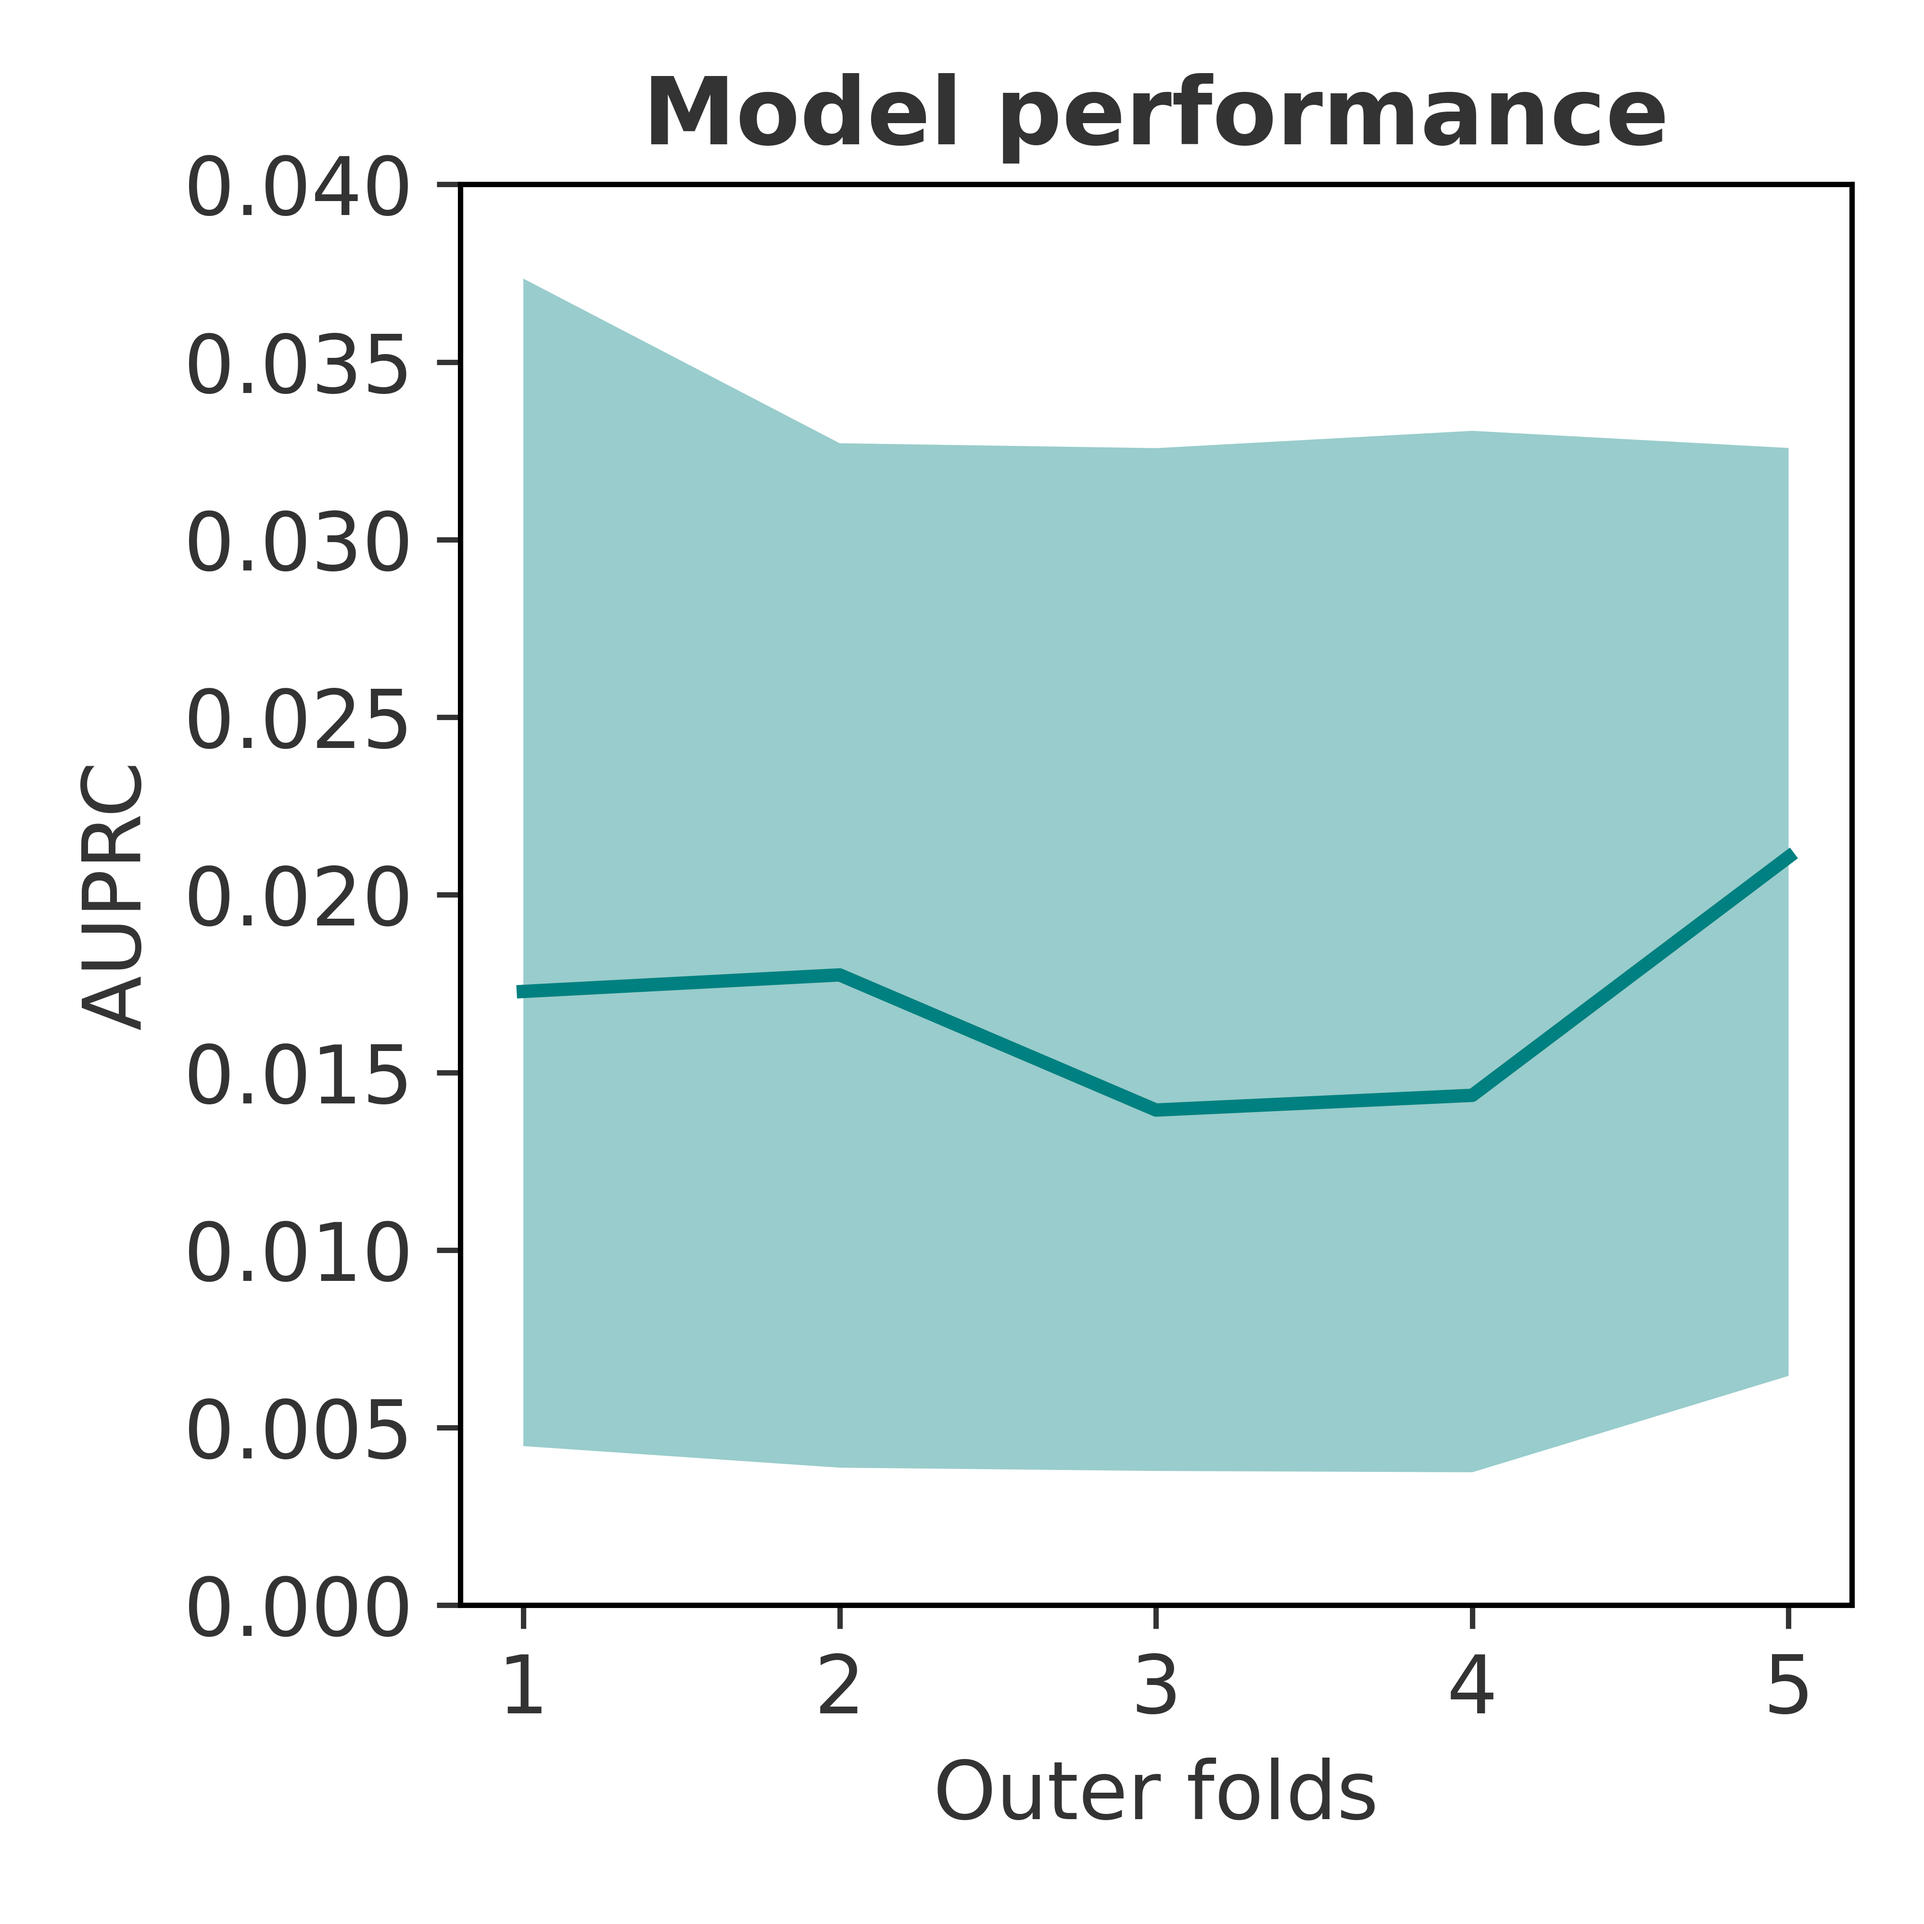
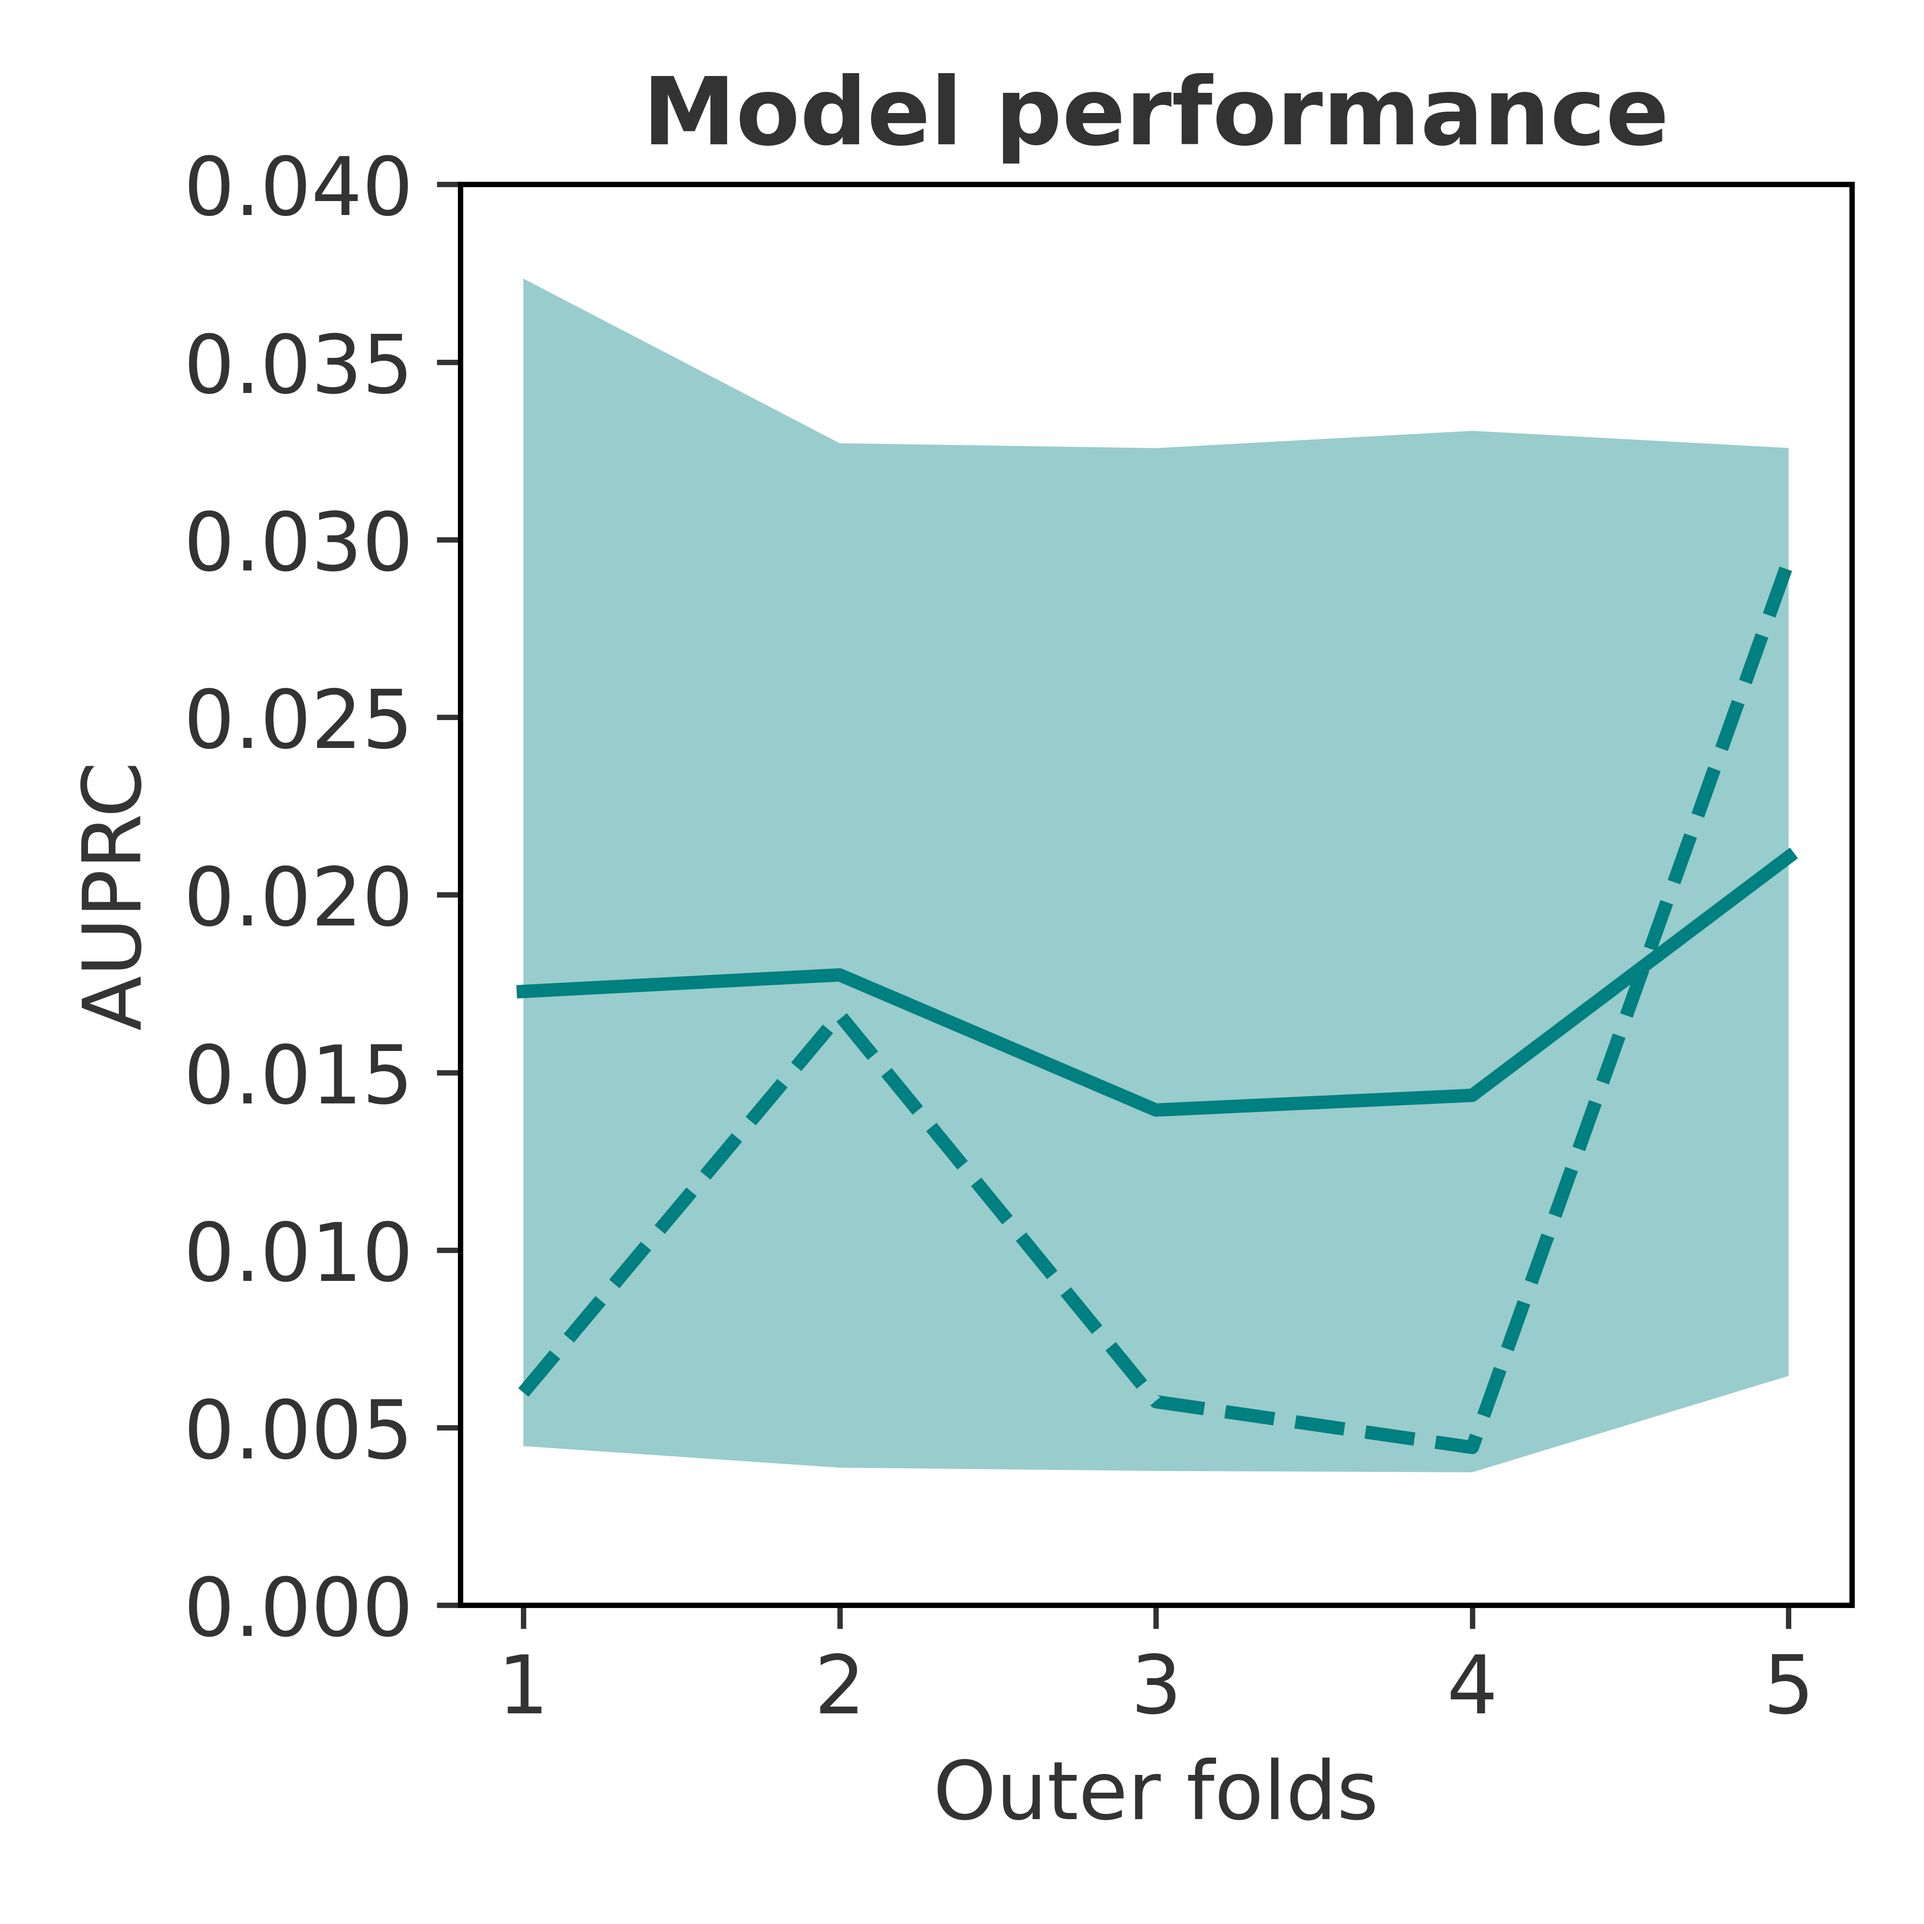
Improved optuna optimisation outcomes plots.

diff --git a/code/plot/22_prob_ff_hydro_short_fc_cv_optuna.py b/code/plot/22_prob_ff_hydro_short_fc_cv_optuna.py
@@ -35,7 +35,6 @@ from matplotlib.ticker import MaxNLocator
 # INPUT PARAMETERS
 num_k_outer = 5
 ml_trained_list = ["gradient_boosting_xgboost", "random_forest_xgboost", "gradient_boosting_catboost", "gradient_boosting_lightgbm", "random_forest_lightgbm", "gradient_boosting_adaboost", "feed_forward_keras"]
-#ml_trained_list = ["gradient_boosting_xgboost", "random_forest_xgboost", "gradient_boosting_catboost", "gradient_boosting_lightgbm", "random_forest_lightgbm"]
 colours_ml_trained_list = ["mediumblue", "orangered", "teal", "crimson", "dodgerblue", "darkviolet", "magenta"]
 eval_metric = "auprc"
 git_repo = "/ec/vol/ecpoint_dev/mofp/phd/probability_of_flash_flood"
@@ -45,6 +44,7 @@ dir_out = "data/plot/22_prob_ff_hydro_short_fc_cv_optuna"
 
 
 # Plots about model's generalisation capabilities under imbalanced datasets
+print("Plots about model's generalisation capabilities under imbalanced datasets")
 for ind_ml, ml_trained in enumerate(ml_trained_list):
       
       colours_ml_trained = colours_ml_trained_list[ind_ml]
@@ -65,6 +65,7 @@ for ind_ml, ml_trained in enumerate(ml_trained_list):
             min.append(eval_metric_vals.min())
             
       plt.plot(np.arange(1, num_k_outer + 1), np.array(mean), color = colours_ml_trained, lw = 2)
+      plt.plot(np.arange(1, num_k_outer + 1), np.array(median), "--", color = colours_ml_trained, lw = 2)
       plt.fill_between(np.arange(1, num_k_outer + 1), np.array(min), np.array(max, ), color = colours_ml_trained, alpha=0.4, edgecolor="none")
       plt.title("Model performance", fontweight='bold', color="#333333", fontsize=14)
       plt.xlabel("Outer folds", color = "#333333", fontsize = 12)
@@ -79,97 +80,114 @@ for ind_ml, ml_trained in enumerate(ml_trained_list):
       plt.savefig(f'{dir_out_temp}/model_generalisation.png', dpi=1000)
       plt.close()
 
+
+# Plots about average model's training times
+print("Plots about average model's training times")
+for ind_ml, ml_trained in enumerate(ml_trained_list):
+      
+      colours_ml_trained = colours_ml_trained_list[ind_ml]
+      dir_in_temp = f'{git_repo}/{dir_in}/{eval_metric}/{ml_trained}/optuna'
+
+      mean = []
+      max = []
+      min = []
+      plt.figure(figsize=(4, 4))
+
+      for ind_k in range(num_k_outer):
+            df = pd.read_csv(f'{dir_in_temp}/trials_rep1_fold{ind_k+1}.csv', delimiter = ",")
+            time_vals = df["wall_secs"]
+            mean.append(time_vals.mean())
+            max.append(time_vals.max())
+            min.append(time_vals.min())
+            
+      plt.plot(np.arange(1, num_k_outer + 1), np.array(mean), color = colours_ml_trained, lw = 2)
+      plt.fill_between(np.arange(1, num_k_outer + 1), np.array(min), np.array(max, ), color = colours_ml_trained, alpha=0.4, edgecolor="none")
+      plt.title("Training times", fontweight='bold', color="#333333", fontsize=14)
+      plt.xlabel("Outer folds", color = "#333333", fontsize = 12)
+      plt.ylabel("Times [seconds]", color = "#333333", fontsize = 12)
+      plt.tick_params(axis='x', colors='#333333', labelsize=12)
+      plt.tick_params(axis='y', colors='#333333', labelsize=12)
+      plt.ylim([0,2000])
+      plt.tight_layout()
+      
+      dir_out_temp = f'{git_repo}/{dir_out}/{eval_metric}/{ml_trained}'
+      os.makedirs(dir_out_temp, exist_ok=True)        
+      plt.savefig(f'{dir_out_temp}/training_time.png', dpi=1000)
+      plt.close()
+
+
 # Plots about hyperparameters importance
+print("Plots about hyperparameters importance")
 meta_cols = {"number", "value", "state", "datetime_start", "datetime_complete", "wall_secs", "duration"}
 for ind_ml, ml_trained in enumerate(ml_trained_list):
       
       colours_ml_trained = colours_ml_trained_list[ind_ml]
       dir_in_temp = f'{git_repo}/{dir_in}/{eval_metric}/{ml_trained}/optuna'
      
+      imp = []
+      plt.figure(figsize=(5, 4))
+
       for ind_k in range(num_k_outer):
 
-            plt.figure(figsize=(7, 4))
             df = pd.read_csv(f'{dir_in_temp}/trials_rep1_fold{ind_k+1}.csv', delimiter = ",")
             hyperparam_cols = [c for c in df.columns if c not in meta_cols and not c.startswith("datetime")]
             corr = {p: abs(np.corrcoef(df[p], df["value"])[0, 1]) for p in hyperparam_cols} # Pearson's r coefficient as proxy
             imp_temp = pd.Series(corr)
-            imp = imp_temp / imp_temp.sum()
-            imp = imp.sort_values()
-            imp.index = imp.index.str.replace(r"^params_", "", regex=True)
-            plt.barh(imp.index, [1] * len(imp_temp), color="whitesmoke", edgecolor="gainsboro", linewidth=0.5)
-            plt.barh(imp.index, imp.values, color=colours_ml_trained)
-            plt.title("Parameter importance", fontweight='bold', color="#333333", fontsize=14)
-            plt.xlabel("Normalised abs(Pearson's r coefficient)", color = "#333333", fontsize = 12)
-            plt.ylabel("Hyperparameters", color = "#333333", fontsize = 12)
-            plt.tick_params(axis='x', colors='#333333', labelsize=12)
-            plt.tick_params(axis='y', colors='#333333', labelsize=12)
-            plt.tight_layout()
+            imp.append(imp_temp / imp_temp.sum())
+      imp_df = pd.concat(imp, axis=1)          
+      mean_imp = imp_df.mean(axis=1)
+      mean_imp    = mean_imp.sort_values(ascending=True)
+      
+      max_imp = imp_df.max(axis=1)[mean_imp.index] - mean_imp
+      min_imp = mean_imp - imp_df.min(axis=1)[mean_imp.index]
+      err_imp = np.vstack([min_imp, max_imp])
 
-            dir_out_temp = f'{git_repo}/{dir_out}/{eval_metric}/{ml_trained}/fold_{ind_k + 1}'
-            os.makedirs(dir_out_temp, exist_ok=True)        
-            plt.savefig(f'{dir_out_temp}/param_importance.png', dpi=1000)
-            plt.close()
+      mean_imp.index = mean_imp.index.str.replace(r"^params_", "", regex=True)
+      plt.barh(mean_imp.index, [1] * len(mean_imp.values), color="whitesmoke", edgecolor="gainsboro", linewidth=0.5)
+      plt.barh(mean_imp.index, mean_imp.values, xerr=err_imp, color=colours_ml_trained, error_kw={
+        "ecolor":   "#888888",              # ← error-bar colour
+        "elinewidth": 1.2,                  # thickness of the bar
+        "capsize": 4,                       # (optional) cap size override
+        "capthick": 1.2                     # (optional) cap line width
+    })
+      plt.title("Parameter importance", fontweight='bold', color="#333333", fontsize=14)
+      plt.xlabel("Normalised abs(Pearson's r coefficient)", color = "#333333", fontsize = 12)
+      plt.tick_params(axis='x', colors='#333333', labelsize=12)
+      plt.tick_params(axis='y', colors='#333333', labelsize=12)
+      plt.tight_layout()
+
+      dir_out_temp = f'{git_repo}/{dir_out}/{eval_metric}/{ml_trained}'
+      os.makedirs(dir_out_temp, exist_ok=True)        
+      plt.savefig(f'{dir_out_temp}/param_importance.png', dpi=1000)
+      plt.close()
 
 
 # Plots about Optuna's optimisation history
+print("Plots about Optuna's optimisation history")
 for ind_ml, ml_trained in enumerate(ml_trained_list):
       
       colours_ml_trained = colours_ml_trained_list[ind_ml]
       dir_in_temp = f'{git_repo}/{dir_in}/{eval_metric}/{ml_trained}/optuna'
-      
+      plt.figure(figsize=(5, 4))
+
+      alpha = [0.1, 0.2, 0.4, 0.6, 0.9]
       for ind_k in range(num_k_outer):
            
             df = pd.read_csv(f'{dir_in_temp}/trials_rep1_fold{ind_k+1}.csv', delimiter = ",")
             
-            plt.figure(figsize=(5, 4))
-            plt.plot(df["number"]+1, df["value"], marker="o", markersize = 1, color=colours_ml_trained)
-            plt.plot(df["number"]+1, df["value"].cummax(), linestyle="--", lw = 0.5, color=colours_ml_trained)
-            plt.title("Optimisation history", fontweight='bold', color="#333333", fontsize=14)
-            plt.xlabel("Trial number", color = "#333333", fontsize = 12)
-            plt.ylabel(eval_metric, color = "#333333", fontsize = 12)
-            plt.tick_params(axis='x', colors='#333333', labelsize=12)
-            plt.tick_params(axis='y', colors='#333333', labelsize=12)
-            plt.xticks(df["number"] + 1)
-            plt.xticks(df["number"]+1, [str(i) if (i % 5 == 0 or i == 1) else "" for i in df["number"]+1])  # label every 5th tick
-            plt.tight_layout()
-
-            dir_out_temp = f'{git_repo}/{dir_out}/{eval_metric}/{ml_trained}/fold_{ind_k + 1}'
-            os.makedirs(dir_out_temp, exist_ok=True)     
-            plt.savefig(f'{dir_out_temp}/optuna_history.png', dpi=1000)
-            plt.close()
-
-
-# Plots Trial runtime vs. Model performance
-for ind_ml, ml_trained in enumerate(ml_trained_list):
+            plt.plot(df["number"]+1, df["value"], "o--", markersize=2, lw=1, color=colours_ml_trained, alpha = alpha[ind_k])
+            plt.plot(df["number"]+1, df["value"].cummax(), linestyle="-", lw = 2.5, color=colours_ml_trained, alpha = alpha[ind_k])
       
-      colours_ml_trained = colours_ml_trained_list[ind_ml]
-      
-      for ind_k in range(num_k_outer):
-            
-            dir_in_temp = f'{git_repo}/{dir_in}/{eval_metric}/{ml_trained}/optuna'
-            df = pd.read_csv(f'{dir_in_temp}/trials_rep1_fold{ind_k+1}.csv', delimiter = ",")
-            
-            plt.figure(figsize=(6, 5))
-            trial_idx = df["number"] + 1
-            sc = plt.scatter(df["wall_secs"], df["value"], c=trial_idx, cmap="plasma", norm=plt.Normalize(0, trial_idx.max()))
+      plt.title("Optimisation history", fontweight='bold', color="#333333", fontsize=14)
+      plt.xlabel("Trial number", color = "#333333", fontsize = 12)
+      plt.ylabel(eval_metric, color = "#333333", fontsize = 12)
+      plt.tick_params(axis='x', colors='#333333', labelsize=12)
+      plt.tick_params(axis='y', colors='#333333', labelsize=12)
+      plt.xticks(df["number"] + 1)
+      plt.xticks(df["number"]+1, [str(i) if (i % 5 == 0 or i == 1) else "" for i in df["number"]+1])  # label every 5th tick
+      plt.tight_layout()
 
-            plt.title("Trial runtime vs. Model performance", fontweight='bold', color="#333333", fontsize=14)
-            plt.xlabel("Time [seconds]", color = "#333333", fontsize = 12)
-            plt.ylabel("AUPRC", color = "#333333", fontsize = 12)
-            plt.tick_params(axis='x', colors='#333333', labelsize=12)
-            plt.tick_params(axis='y', colors='#333333', labelsize=12)
-            cbar = plt.colorbar(sc)
-            cbar.set_label("Trial number", fontsize=12, color="#333333")
-            step  = 2
-            ticks = np.arange(0, trial_idx.max() + 1, step)
-            if ticks[-1] != trial_idx.max():    # ensure the very last tick is the max
-                  ticks = np.append(ticks, trial_idx.max())
-            cbar.set_ticks(ticks)
-            cbar.ax.tick_params(colors="#333333", labelsize=11)
-            cbar.ax.yaxis.set_major_locator(MaxNLocator(integer=True))
-            plt.tight_layout()
-
-            dir_out_temp = f'{git_repo}/{dir_out}/{eval_metric}/{ml_trained}/fold_{ind_k + 1}'
-            os.makedirs(dir_out_temp, exist_ok=True)
-            plt.savefig(f'{dir_out_temp}/runtime_performance.png', dpi=1000)
-            plt.close()
+      dir_out_temp = f'{git_repo}/{dir_out}/{eval_metric}/{ml_trained}'
+      os.makedirs(dir_out_temp, exist_ok=True)     
+      plt.savefig(f'{dir_out_temp}/optuna_history.png', dpi=1000)
+      plt.close()
